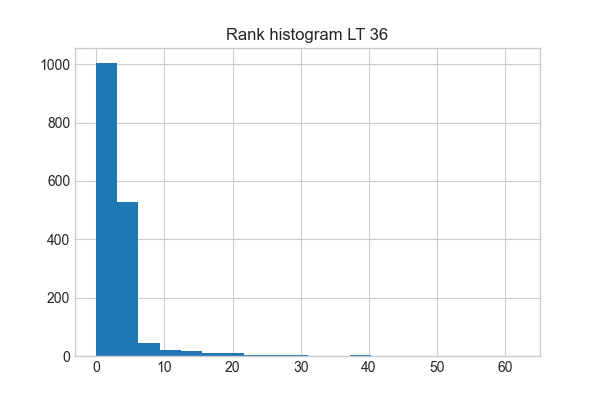
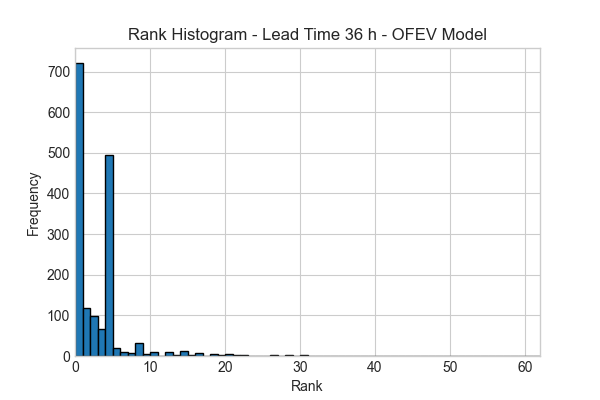
Ajout de métriques dans dpordi et j'ai mieux formater les graphs de probmetricOfev

diff --git a/notebooks/ProbMetricOFEV.py b/notebooks/ProbMetricOFEV.py
@@ -180,8 +180,20 @@ for LT in LEAD_TIMES:
         ranks.append(rank)
 
     plt.figure(figsize=(6,4))
-    plt.hist(ranks, bins=20)
-    plt.title(f"Rank histogram LT {LT}")
+
+    max_rank = max(ranks)
+
+    plt.hist(ranks, bins=np.arange(0, max_rank+2), edgecolor='black')
+
+    plt.xlim(0, max_rank)
+
+    plt.xlabel("Rank")
+    plt.ylabel("Frequency")
+
+    plt.title(f"Rank Histogram - Lead Time {LT} h - OFEV Model")
+
+    plt.margins(x=0)  # pas d'espace gauche/droite
+
     plt.savefig(out_lt/"rank_histogram.png")
     plt.close()
 
@@ -209,13 +221,18 @@ for LT in LEAD_TIMES:
 
     plt.figure(figsize=(5,5))
 
-    plt.plot([0,1],[0,1],'k--')
+    plt.plot([0,1],[0,1],'k--', label="Perfect reliability")
     plt.plot(rel_prob, rel_obs,"o-")
 
     plt.xlabel("Forecast probability")
     plt.ylabel("Observed frequency")
 
-    plt.title(f"Reliability LT {LT}")
+    plt.title(f"Reliability Diagram - Lead Time {LT} h - OFEV Model")
+
+    plt.xlim(0,1)
+    plt.ylim(0,1)
+
+    plt.margins(0)
 
     plt.savefig(out_lt/"reliability.png")
     plt.close()
@@ -225,16 +242,22 @@ for LT in LEAD_TIMES:
     # ======================================================
 
     plt.figure(figsize=(5,5))
-    plt.scatter(spread_list, skill_list, alpha=0.3)
+
+    plt.scatter(spread_list, skill_list, s=10)
 
     m = max(max(spread_list), max(skill_list))
 
     plt.plot([0,m],[0,m],'k--')
 
-    plt.xlabel("Spread")
-    plt.ylabel("Skill")
+    plt.xlabel("Spread (ensemble std)")
+    plt.ylabel("Skill (|median - obs|)")
 
-    plt.title(f"Spread Skill LT {LT}")
+    plt.title(f"Spread-Skill - Lead Time {LT} h - OFEV Model")
+
+    plt.xlim(0, m)
+    plt.ylim(0, m)
+
+    plt.margins(0)
 
     plt.savefig(out_lt/"spread_skill.png")
     plt.close()

diff --git a/notebooks/dpordi.py b/notebooks/dpordi.py
@@ -49,6 +49,18 @@ def peak_timing(obs, sim, index):
 def volume_error(obs, sim):
     return (np.sum(sim)-np.sum(obs))/np.sum(obs)*100
 
+def rmse(obs, sim):
+    return np.sqrt(np.mean((obs - sim)**2))
+
+def relative_volume_error(obs, sim):
+    return (np.sum(sim) - np.sum(obs)) / np.sum(obs) * 100
+
+def mape_high_flows(obs, sim, thr):
+    mask = obs > thr
+    if np.sum(mask) == 0:
+        return np.nan
+    return 100 * np.mean(np.abs((obs[mask] - sim[mask]) / obs[mask]))
+
 # ============================================================
 # EVENT DETECTION
 # ============================================================
@@ -306,13 +318,21 @@ for LT in LEAD_TIMES:
         sim_v = df.iloc[:,1].values
 
         all_metrics.append({
-            "lead_time":LT,
-            "model":name,
-            "NSE":nse(obs_v,sim_v),
-            "KGE":kge(obs_v,sim_v),
-            "Peak_%":peak_error(obs_v,sim_v),
-            "Timing_h":peak_timing(obs_v,sim_v,df.index),
-            "Volume_%":volume_error(obs_v,sim_v)
+            "lead_time": LT,
+            "model": name,
+
+            # global metrics
+            "NSE": nse(obs_v, sim_v),
+            "KGE": kge(obs_v, sim_v),
+            "RMSE": rmse(obs_v, sim_v),
+
+            # flood-focused metrics
+            "REQ_%": peak_error(obs_v, sim_v),
+            "TP_h": peak_timing(obs_v, sim_v, df.index),
+            "RER_%": relative_volume_error(obs_v, sim_v),
+
+            # high-flow metric
+            "MAPE_high_%": mape_high_flows(obs_v, sim_v, FLOOD_THR)
         })
 
         plt.figure(figsize=(5,5))
